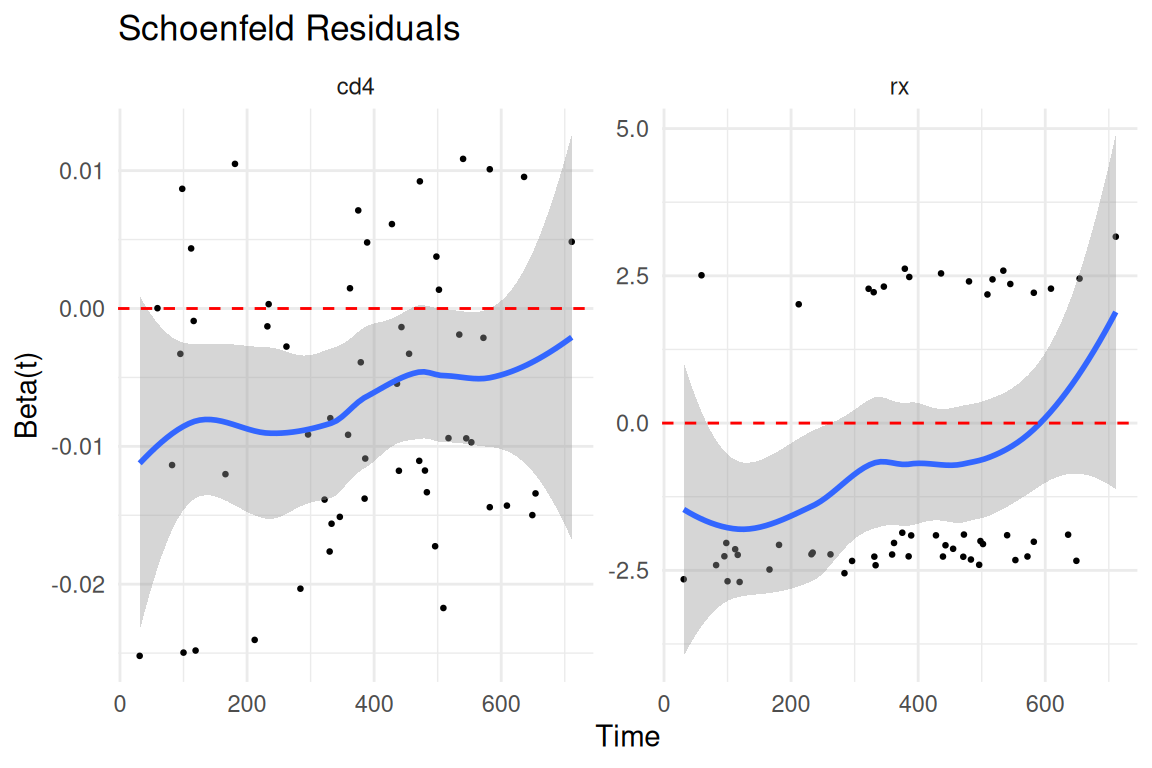
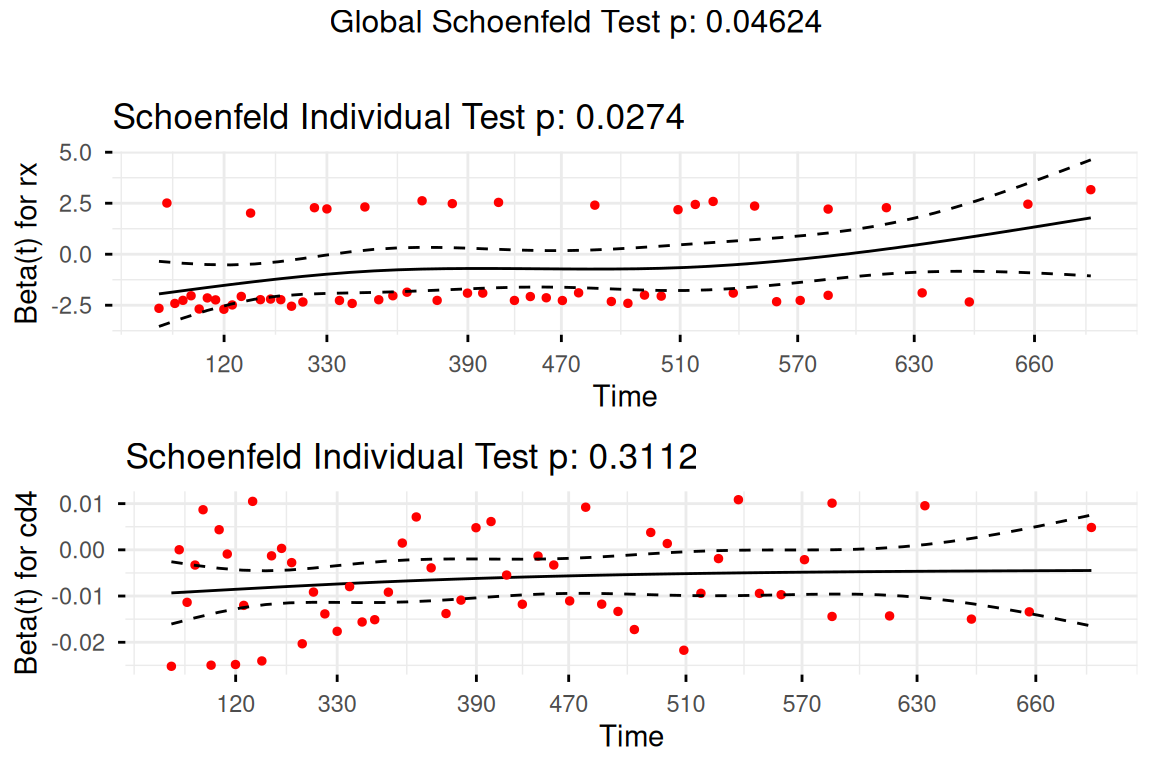
Deploy preview for PR 14 🛫

diff --git a/pr-preview/pr-14/vignettes/articles/dataset-actg019.html b/pr-preview/pr-14/vignettes/articles/dataset-actg019.html
@@ -1081,26 +1081,10 @@ Figure&nbsp;3: Swimmer plot of follow-up time with event markers in a balanced s
 <span><span class="co">#&gt; cd4     1.03  1 0.311</span></span>
 <span><span class="co">#&gt; GLOBAL  6.15  2 0.046</span></span>
 <span></span>
-<span><span class="kw">if</span> <span class="op">(</span><span class="fu"><a href="https://rdrr.io/r/base/length.html">length</a></span><span class="op">(</span><span class="va">ph_test</span><span class="op">$</span><span class="va">time</span><span class="op">)</span> <span class="op">&gt;</span> <span class="fl">0</span><span class="op">)</span> <span class="op">{</span></span>
-<span>  <span class="va">n_vars</span> <span class="op">&lt;-</span> <span class="fu"><a href="https://rdrr.io/r/base/nrow.html">ncol</a></span><span class="op">(</span><span class="va">ph_test</span><span class="op">$</span><span class="va">y</span><span class="op">)</span></span>
-<span>  <span class="va">ph_data</span> <span class="op">&lt;-</span> <span class="fu"><a href="https://rdrr.io/r/base/data.frame.html">data.frame</a></span><span class="op">(</span></span>
-<span>    time <span class="op">=</span> <span class="fu"><a href="https://rdrr.io/r/base/rep.html">rep</a></span><span class="op">(</span><span class="va">ph_test</span><span class="op">$</span><span class="va">time</span>, <span class="va">n_vars</span><span class="op">)</span>,</span>
-<span>    beta <span class="op">=</span> <span class="fu"><a href="https://rdrr.io/r/base/vector.html">as.vector</a></span><span class="op">(</span><span class="va">ph_test</span><span class="op">$</span><span class="va">y</span><span class="op">)</span>,</span>
-<span>    variable <span class="op">=</span> <span class="fu"><a href="https://rdrr.io/r/base/rep.html">rep</a></span><span class="op">(</span><span class="fu"><a href="https://rdrr.io/r/base/colnames.html">colnames</a></span><span class="op">(</span><span class="va">ph_test</span><span class="op">$</span><span class="va">y</span><span class="op">)</span>, each <span class="op">=</span> <span class="fu"><a href="https://rdrr.io/r/base/length.html">length</a></span><span class="op">(</span><span class="va">ph_test</span><span class="op">$</span><span class="va">time</span><span class="op">)</span><span class="op">)</span></span>
-<span>  <span class="op">)</span></span>
-<span></span>
-<span>  <span class="fu">ggplot2</span><span class="fu">::</span><span class="fu"><a href="https://ggplot2.tidyverse.org/reference/ggplot.html">ggplot</a></span><span class="op">(</span><span class="va">ph_data</span>, <span class="fu">ggplot2</span><span class="fu">::</span><span class="fu"><a href="https://ggplot2.tidyverse.org/reference/aes.html">aes</a></span><span class="op">(</span>x <span class="op">=</span> <span class="va">time</span>, y <span class="op">=</span> <span class="va">beta</span><span class="op">)</span><span class="op">)</span> <span class="op">+</span></span>
-<span>    <span class="fu">ggplot2</span><span class="fu">::</span><span class="fu"><a href="https://ggplot2.tidyverse.org/reference/geom_point.html">geom_point</a></span><span class="op">(</span>size <span class="op">=</span> <span class="fl">0.5</span><span class="op">)</span> <span class="op">+</span></span>
-<span>    <span class="fu">ggplot2</span><span class="fu">::</span><span class="fu"><a href="https://ggplot2.tidyverse.org/reference/geom_smooth.html">geom_smooth</a></span><span class="op">(</span>se <span class="op">=</span> <span class="cn">TRUE</span><span class="op">)</span> <span class="op">+</span></span>
-<span>    <span class="fu">ggplot2</span><span class="fu">::</span><span class="fu"><a href="https://ggplot2.tidyverse.org/reference/geom_abline.html">geom_hline</a></span><span class="op">(</span>yintercept <span class="op">=</span> <span class="fl">0</span>, linetype <span class="op">=</span> <span class="st">"dashed"</span>, color <span class="op">=</span> <span class="st">"red"</span><span class="op">)</span> <span class="op">+</span></span>
-<span>    <span class="fu">ggplot2</span><span class="fu">::</span><span class="fu"><a href="https://ggplot2.tidyverse.org/reference/facet_wrap.html">facet_wrap</a></span><span class="op">(</span><span class="op">~</span><span class="va">variable</span>, scales <span class="op">=</span> <span class="st">"free_y"</span><span class="op">)</span> <span class="op">+</span></span>
-<span>    <span class="fu">ggplot2</span><span class="fu">::</span><span class="fu"><a href="https://ggplot2.tidyverse.org/reference/labs.html">labs</a></span><span class="op">(</span></span>
-<span>      title <span class="op">=</span> <span class="st">"Schoenfeld Residuals"</span>,</span>
-<span>      x <span class="op">=</span> <span class="st">"Time"</span>,</span>
-<span>      y <span class="op">=</span> <span class="st">"Beta(t)"</span></span>
-<span>    <span class="op">)</span> <span class="op">+</span></span>
-<span>    <span class="fu">ggplot2</span><span class="fu">::</span><span class="fu"><a href="https://ggplot2.tidyverse.org/reference/ggtheme.html">theme_minimal</a></span><span class="op">(</span><span class="op">)</span></span>
-<span><span class="op">}</span></span></code></pre></div><button title="Copy to Clipboard" class="code-copy-button"><i class="bi"></i></button></div>
+<span><span class="fu">survminer</span><span class="fu">::</span><span class="fu"><a href="https://rdrr.io/pkg/survminer/man/ggcoxzph.html">ggcoxzph</a></span><span class="op">(</span></span>
+<span>  <span class="va">ph_test</span>,</span>
+<span>  ggtheme <span class="op">=</span> <span class="fu">ggplot2</span><span class="fu">::</span><span class="fu"><a href="https://ggplot2.tidyverse.org/reference/ggtheme.html">theme_minimal</a></span><span class="op">(</span><span class="op">)</span></span>
+<span><span class="op">)</span></span></code></pre></div><button title="Copy to Clipboard" class="code-copy-button"><i class="bi"></i></button></div>
 </details><div id="fig-actg019-ph" class="quarto-float quarto-figure quarto-figure-center anchored">
 <figure class="quarto-float quarto-float-fig figure"><figcaption class="quarto-float-caption-top quarto-float-caption quarto-float-fig" id="fig-actg019-ph-caption-0ceaefa1-69ba-4598-a22c-09a6ac19f8ca">
 Figure&nbsp;4: Scaled Schoenfeld residual diagnostics for proportional hazards assumptions.

diff --git a/pr-preview/pr-14/vignettes/articles/dataset-pbc.html b/pr-preview/pr-14/vignettes/articles/dataset-pbc.html
@@ -1042,21 +1042,11 @@ Figure&nbsp;2: Overall Kaplan-Meier survival curve for the PBC study cohort.
 <span><span class="co">#&gt; edema    6.51  1 0.011</span></span>
 <span><span class="co">#&gt; GLOBAL  12.49  5 0.029</span></span>
 <span></span>
-<span><span class="va">ph_df</span> <span class="op">&lt;-</span> <span class="fu"><a href="https://rdrr.io/r/base/data.frame.html">data.frame</a></span><span class="op">(</span></span>
-<span>  time <span class="op">=</span> <span class="va">ph_test</span><span class="op">$</span><span class="va">time</span>,</span>
-<span>  beta <span class="op">=</span> <span class="va">ph_test</span><span class="op">$</span><span class="va">y</span><span class="op">[</span>, <span class="fl">1</span><span class="op">]</span></span>
-<span><span class="op">)</span></span>
-<span></span>
-<span><span class="fu">ggplot2</span><span class="fu">::</span><span class="fu"><a href="https://ggplot2.tidyverse.org/reference/ggplot.html">ggplot</a></span><span class="op">(</span><span class="va">ph_df</span>, <span class="fu">ggplot2</span><span class="fu">::</span><span class="fu"><a href="https://ggplot2.tidyverse.org/reference/aes.html">aes</a></span><span class="op">(</span>x <span class="op">=</span> <span class="va">time</span>, y <span class="op">=</span> <span class="va">beta</span><span class="op">)</span><span class="op">)</span> <span class="op">+</span></span>
-<span>  <span class="fu">ggplot2</span><span class="fu">::</span><span class="fu"><a href="https://ggplot2.tidyverse.org/reference/geom_point.html">geom_point</a></span><span class="op">(</span><span class="op">)</span> <span class="op">+</span></span>
-<span>  <span class="fu">ggplot2</span><span class="fu">::</span><span class="fu"><a href="https://ggplot2.tidyverse.org/reference/geom_smooth.html">geom_smooth</a></span><span class="op">(</span>se <span class="op">=</span> <span class="cn">TRUE</span><span class="op">)</span> <span class="op">+</span></span>
-<span>  <span class="fu">ggplot2</span><span class="fu">::</span><span class="fu"><a href="https://ggplot2.tidyverse.org/reference/geom_abline.html">geom_hline</a></span><span class="op">(</span>yintercept <span class="op">=</span> <span class="fl">0</span>, linetype <span class="op">=</span> <span class="st">"dashed"</span>, color <span class="op">=</span> <span class="st">"red"</span><span class="op">)</span> <span class="op">+</span></span>
-<span>  <span class="fu">ggplot2</span><span class="fu">::</span><span class="fu"><a href="https://ggplot2.tidyverse.org/reference/labs.html">labs</a></span><span class="op">(</span></span>
-<span>    title <span class="op">=</span> <span class="st">"Schoenfeld Residuals for Log-bilirubin"</span>,</span>
-<span>    x <span class="op">=</span> <span class="st">"Time"</span>,</span>
-<span>    y <span class="op">=</span> <span class="st">"Beta(t) for Log-bilirubin"</span></span>
-<span>  <span class="op">)</span> <span class="op">+</span></span>
-<span>  <span class="fu">ggplot2</span><span class="fu">::</span><span class="fu"><a href="https://ggplot2.tidyverse.org/reference/ggtheme.html">theme_minimal</a></span><span class="op">(</span><span class="op">)</span></span></code></pre></div><button title="Copy to Clipboard" class="code-copy-button"><i class="bi"></i></button></div>
+<span><span class="fu">survminer</span><span class="fu">::</span><span class="fu"><a href="https://rdrr.io/pkg/survminer/man/ggcoxzph.html">ggcoxzph</a></span><span class="op">(</span></span>
+<span>  <span class="va">ph_test</span>,</span>
+<span>  var <span class="op">=</span> <span class="st">"logbili"</span>,</span>
+<span>  ggtheme <span class="op">=</span> <span class="fu">ggplot2</span><span class="fu">::</span><span class="fu"><a href="https://ggplot2.tidyverse.org/reference/ggtheme.html">theme_minimal</a></span><span class="op">(</span><span class="op">)</span></span>
+<span><span class="op">)</span></span></code></pre></div><button title="Copy to Clipboard" class="code-copy-button"><i class="bi"></i></button></div>
 </details><div id="fig-pbc-ph" class="quarto-float quarto-figure quarto-figure-center anchored">
 <figure class="quarto-float quarto-float-fig figure"><figcaption class="quarto-float-caption-top quarto-float-caption quarto-float-fig" id="fig-pbc-ph-caption-0ceaefa1-69ba-4598-a22c-09a6ac19f8ca">
 Figure&nbsp;3: Scaled Schoenfeld residual plot for the log-bilirubin covariate effect.

diff --git a/pr-preview/pr-14/vignettes/articles/dataset-figure4_6.html b/pr-preview/pr-14/vignettes/articles/dataset-figure4_6.html
@@ -1003,8 +1003,9 @@ Figure&nbsp;2: Scatterplot with fitted linear trend for the simulated outcome da
 </div>
 </section><section id="model-diagnostics" class="level3" data-number="3.3"><h3 data-number="3.3" class="anchored" data-anchor-id="model-diagnostics">
 <span class="header-section-number">3.3</span> Model diagnostics</h3>
-<details open="" class="code-fold"><summary>Code</summary><div class="code-copy-outer-scaffold"><div class="sourceCode" id="cb8"><pre class="downlit sourceCode r code-with-copy"><code class="sourceCode R"><span><span class="fu"><a href="https://rdrr.io/r/base/ns-load.html">loadNamespace</a></span><span class="op">(</span><span class="st">"ggfortify"</span><span class="op">)</span></span>
-<span><span class="co">#&gt; &lt;environment: namespace:ggfortify&gt;</span></span>
+<details open="" class="code-fold"><summary>Code</summary><div class="code-copy-outer-scaffold"><div class="sourceCode" id="cb8"><pre class="downlit sourceCode r code-with-copy"><code class="sourceCode R"><span><span class="kw">if</span> <span class="op">(</span><span class="op">!</span><span class="fu"><a href="https://rdrr.io/r/base/ns-load.html">requireNamespace</a></span><span class="op">(</span><span class="st">"ggfortify"</span>, quietly <span class="op">=</span> <span class="cn">TRUE</span><span class="op">)</span><span class="op">)</span> <span class="op">{</span></span>
+<span>  <span class="kw"><a href="https://rdrr.io/r/base/stop.html">stop</a></span><span class="op">(</span><span class="st">"Package 'ggfortify' is required for model diagnostic autoplots."</span><span class="op">)</span></span>
+<span><span class="op">}</span></span>
 <span><span class="fu">ggplot2</span><span class="fu">::</span><span class="fu"><a href="https://ggplot2.tidyverse.org/reference/autoplot.html">autoplot</a></span><span class="op">(</span></span>
 <span>  <span class="va">fit</span>,</span>
 <span>  which <span class="op">=</span> <span class="fl">1</span><span class="op">:</span><span class="fl">4</span>,</span>

diff --git a/pr-preview/pr-14/NEWS.html b/pr-preview/pr-14/NEWS.html
@@ -837,7 +837,7 @@ ul.task-list li input[type="checkbox"] {
 <ul>
 <li>Replaced hand-built Kaplan-Meier and linear-model diagnostic plots with package helpers (<code>survminer::ggsurvplot()</code> and <code>ggfortify::autoplot()</code>) where available, while retaining consistent <code>ggplot2</code> styling across dataset vignettes.</li>
 <li>Replaced all 26 <code>{mermaid}</code> causal DAGs in dataset vignettes with R-rendered <a href="https://r-causal.github.io/ggdag/"><code>{ggdag}</code></a> plots for consistent, reproducible visualization. Added <code>ggdag</code> to <code>DESCRIPTION Suggests</code>.</li>
-<li>Bumped development version to <code>0.0.0.9017</code>.</li>
+<li>Bumped development version to <code>0.0.0.9018</code>.</li>
 <li>Added swimmer plots to all longitudinal dataset vignettes (<code>dataset-leuk.qmd</code>, <code>dataset-actg019.qmd</code>, <code>dataset-mira_hsv.qmd</code>, <code>dataset-sof2.qmd</code>, <code>dataset-hers_nodm_longitudinal.qmd</code>, <code>dataset-fecfat.qmd</code>) using the <a href="https://github.com/biostatsPMH/swimplot"><code>{swimplot}</code></a> package. Large cohorts are subsetted for legibility.</li>
 <li>Bumped development version to <code>0.0.0.9016</code>.</li>
 <li>Restructured all 26 dataset vignettes as mini-journal articles with four standard sections: Introduction, Methods, Results, and Discussion. Each article includes a dataset-specific causal DAG, targeted statistical analysis, and scientific interpretation anchored to the relevant RMB2e chapter.</li>
